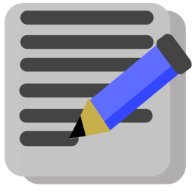
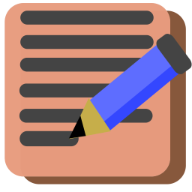
Add files via upload

diff --git a/src/test save file 2.html b/src/test save file 2.html
@@ -1,0 +1,89 @@
+<html><head>
+<style>
+    body {
+        margin: 0%;
+    }
+
+    @font-face {
+        font-family: "CG";
+        src: url(./resources/CENTURYGOTHIC.ttf) format("truetype");
+    }
+
+    textarea {
+        margin-left: 0%;
+        margin-top: 0%;
+        height: 80%;
+        width: 100%;
+        resize: none;
+        visibility: visible;
+        background-color: white;
+        border-color: black;
+
+    }
+
+    button {
+        background-color: white;
+        font-family: CG;
+        border-color: black;
+        border-width: 1px;
+        padding-top: 10px;
+        padding-bottom: 10px;
+        padding-right: 20px;
+        padding-left: 20px;
+        margin-top: 10px;
+        text-transform: capitalize;
+    }
+
+</style></head>
+
+
+<body>
+    <textarea id="textbox" placeholder="You can write anything here... just start tyipng what you would like to remember: Notes, Homework, Tests, just anything."></textarea>
+    <button id="create">SAVE TO FILE</button>
+    <a download="notes.txt" id="downloadlink" style="display: none"><button onclick="functionreset()">DOWNLOAD</button></a>
+    <br>
+
+    <script>
+        (function() {
+            var textFile = null,
+                makeTextFile = function(text) {
+                    var data = new Blob([text], {
+                        type: 'text/plain'
+                    });
+
+                    // If we are replacing a previously generated file we need to
+                    // manually revoke the object URL to avoid memory leaks.
+                    if (textFile !== null) {
+                        window.URL.revokeObjectURL(textFile);
+                    }
+
+                    textFile = window.URL.createObjectURL(data);
+
+                    return textFile;
+                };
+
+
+            var create = document.getElementById('create'),
+                textbox = document.getElementById('textbox');
+
+            create.addEventListener('click', function() {
+                var link = document.getElementById('downloadlink');
+                link.href = makeTextFile(textbox.value);
+                link.style.display = 'block';
+                document.getElementById('create').style.display = 'none';
+            }, false);
+        })();
+
+        function functionreset() {
+            var link = document.getElementById('downloadlink');
+            link.style.display = 'none';
+            document.getElementById('create').style.display = 'block';
+        }
+
+    </script>
+    <script>
+         document.getElementById("textbox").onchange = function() {functionreset()}
+    </script>
+
+<!-- <iframe height=100% width=100%; src=./test.html></iframe>-->
+</body></html>

diff --git a/src/style.css b/src/style.css
@@ -19,14 +19,14 @@ input#filname:hover {
     box-shadow: 0px 1px 1px grey;
 }
 #top{
-    background: lightgray;
-    color: black;
+    background: #b52b12;
+    color: white;
     font-size: 18px;
     text-align: center;
 }
 #header {
-    background: lightgray;
-    color: black;
+    background: #d63f24;
+    color: white;
     font-size: 18px;
     padding: 16px;
 }
@@ -69,15 +69,19 @@ input#filname:hover {
 @media only screen and (min-width: 680px) {
     #menu {
         display: inline-block;
+        color: white;   
     }
     .menuitem {
     }
     .menuitem + .menuitem {
-
+        color: white;
     }
     #menubutton {
         display: none;
     }
+    #aboutus {
+    font-size: 54px
+}
 }
 @media only screen and (max-width: 679px) {
     #menubutton {
@@ -85,7 +89,7 @@ input#filname:hover {
     }
     #menu {
         position: fixed;
-        background: lightgrey;
+        background: #e6482c;
         padding: 2%;
         font-size: 30px;
         float: left;
@@ -107,7 +111,7 @@ input#filname:hover {
 #controls {
     margin: -15px;
 }
-a#button, #about, #home, #saveas {
+a#button, #about, #home, #saveas, #load {
     width: 100px;
     border-radius: 5px;
     border-left: : 10px solid grey;
@@ -155,8 +159,23 @@ a#saveas:active {
     color: gray;
     box-shadow: 0px 1px 1px grey inset;
 }
+a#load:hover {
+    background: lightgray;
+    color: grey;
+    box-shadow:  1px 1px 3px black;
+}
+a#load:active {
+    color: gray;
+    box-shadow: 0px 1px 1px grey inset;
+}
 
-
-#aboutus {
-    font-size: 54px
+#inputfile {
+    width: 100px;
+    border-radius: 5px;
+    border-left: : 10px solid grey;
+    color: black;
+    text-decoration: none;
+    text-align: left; 
+    padding: 2px 2px 2px 2px;
+    text-shadow: 0px 1px 1px grey;
 }

diff --git a/src/index.html b/src/index.html
@@ -1,7 +1,7 @@
 <!DOCTYPE html>
 <html>
     <head>
-        <title>Dev note</title>
+        <title>Wood note</title>
         <meta name="viewport" content="initial-scale=1, maximum-scale=1" />
         <link rel="apple-touch-icon" sizes="180x180" href="apple-touch-icon.png">
         <link rel="icon" type="image/png" sizes="32x32" href="favicon-32x32.png">
@@ -17,7 +17,7 @@
             <p>
                 <div id="controls">
                     <div id="top">
-                                <h4>DEV Note</h4>
+                                <h4>Wood Note</h4>
                         </div>
                     <p>
                         <img src="favicon.ico" style="width: 15px;">
@@ -37,8 +37,8 @@
         </div>
         <div id="container">
             <form>
-                <input id="filename" type="hidden" name="text" value="dev_note_TxT.txt">
-                <textarea id="area" name="textarea" rows="41" cols="100" placeholder="Start Typing In DEV Note">Hello World!</textarea>
+                <input id="filename" type="hidden" name="text" value="wood_note_TxT.txt">
+                <textarea id="area" name="textarea" rows="41" cols="100" placeholder="Start Typing In Wood Note">Hello World!</textarea>
             </form>
         </div>
     </body>

diff --git a/src/functionality.js b/src/functionality.js
@@ -67,11 +67,11 @@ function about() {
     p.id = 'aboutus';
 
     container.appendChild(p);
-    var text = document.createTextNode("Version:1.3.0____Update: PWA Update____Description: This update makes the application now able to be installed on your device.");
+    var text = document.createTextNode("Version:1.3.0 Update: PWA UpdateDescription: This update makes the application now able to be installed on your device.");
     p.appendChild(text);
 
     container.appendChild(p);
-    var text = document.createTextNode("Dev Note Is a Minimlistic note taking app made using Vanila HTML, css & Javascript.");
+    var text = document.createTextNode("Wood Note Is a Minimlistic note taking app made using Vanila HTML, css & Javascript.");
     p.appendChild(text);
 
     container.appendChild(p);
@@ -128,7 +128,7 @@ function saveasother() {
 function saveas(textarea) {
 	var data = document.getElementsByName('textarea')[0].value;
 	var blob = new Blob([data], {type: "text/plain;charset=utf-8"});
-	saveAs(blob, "dev_note_page.txt");
+	saveAs(blob, "wood_note_page.txt");
 }
 /*function lodf() {
 	document.getElementById('area').value = "";

diff --git a/src/test save file.html b/src/test save file.html
@@ -1,0 +1,40 @@
+<!DOCTYPE html>
+<html>
+<head>
+<style>
+form * {
+  display: block;
+  margin: 10px;
+}
+</style>
+<script language="Javascript" >
+function download(filename, text) {
+  var pom = document.createElement('a');
+  pom.setAttribute('href', 'data:text/plain;charset=utf-8,' + 
+
+encodeURIComponent(text));
+  pom.setAttribute('download', filename);
+
+  pom.style.display = 'none';
+  document.body.appendChild(pom);
+
+  pom.click();
+
+  document.body.removeChild(pom);
+}
+</script>
+</head>
+<body>
+
+<form onsubmit="download(this['name'].value, this['text'].value)">
+  <input type="text" name="name" value="test.txt">
+  <textarea rows=3 cols=50 name="text">Please type in this box. When you 
+
+click the Download button, the contents of this box will be downloaded to 
+
+your machine at the location you specify. Pretty nifty. </textarea>
+  <input type="submit" value="Download">
+</form>
+</body>
+</html>
+share  improve this answer  follow 
